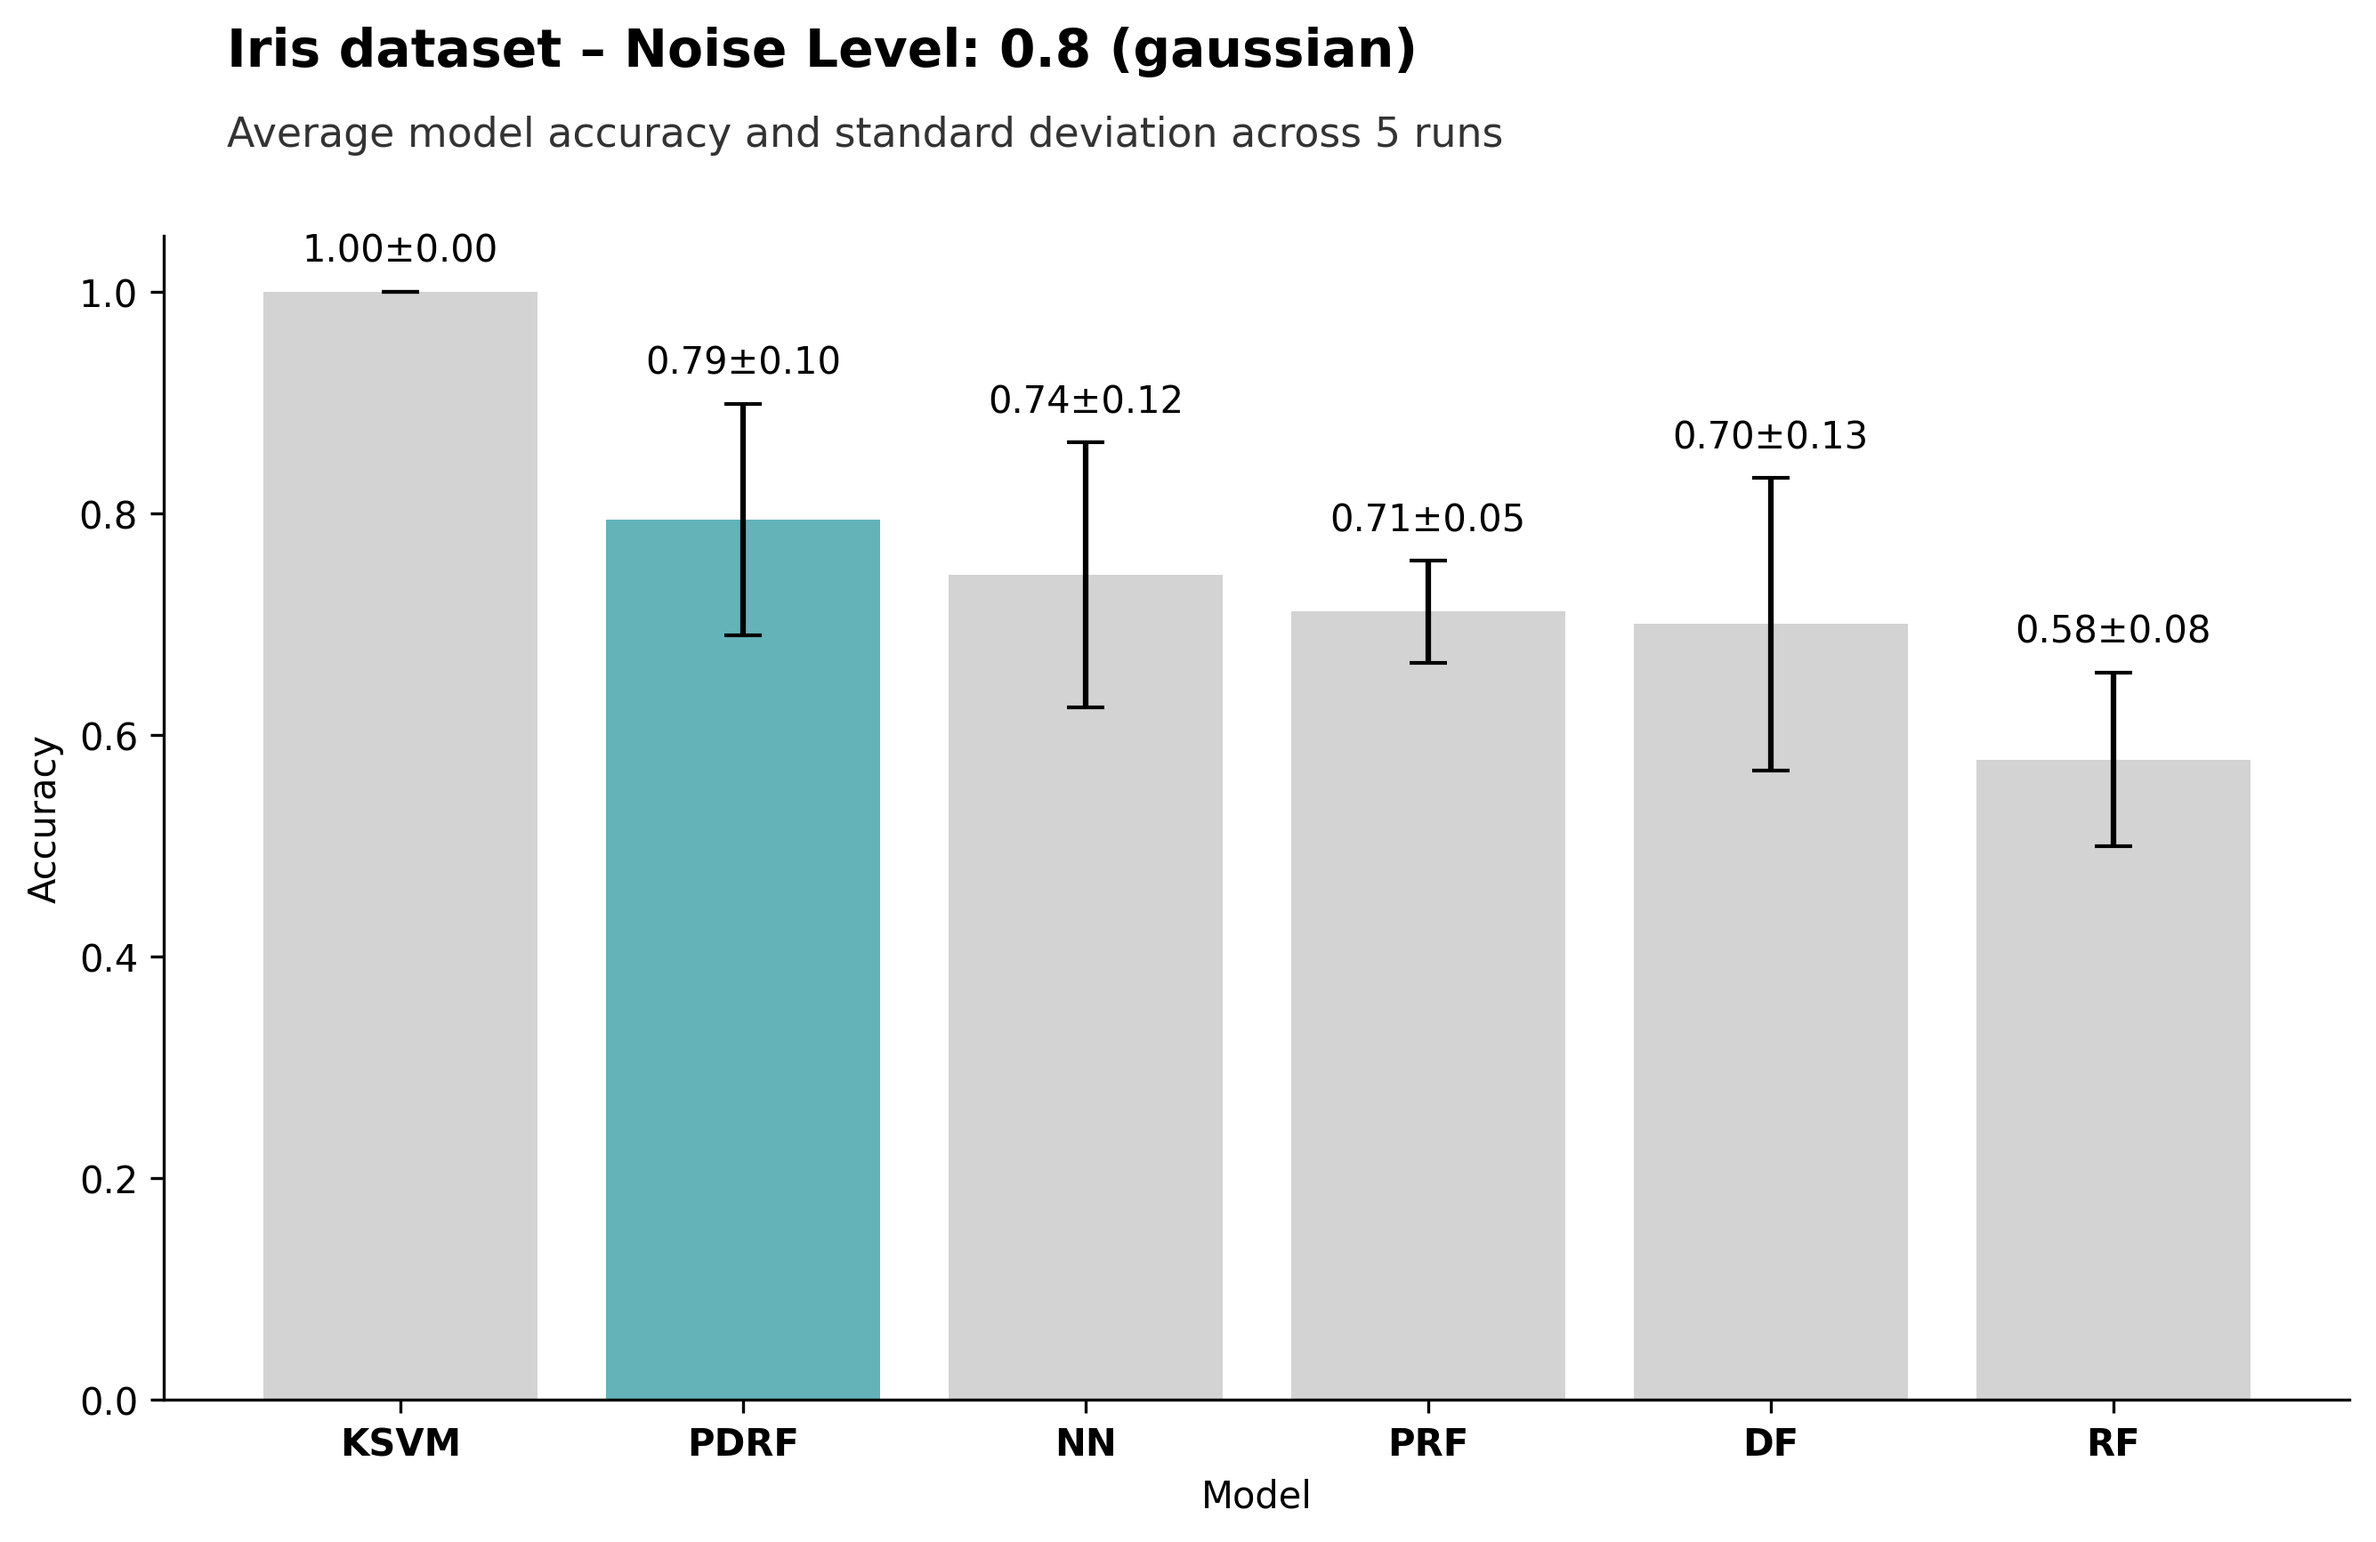
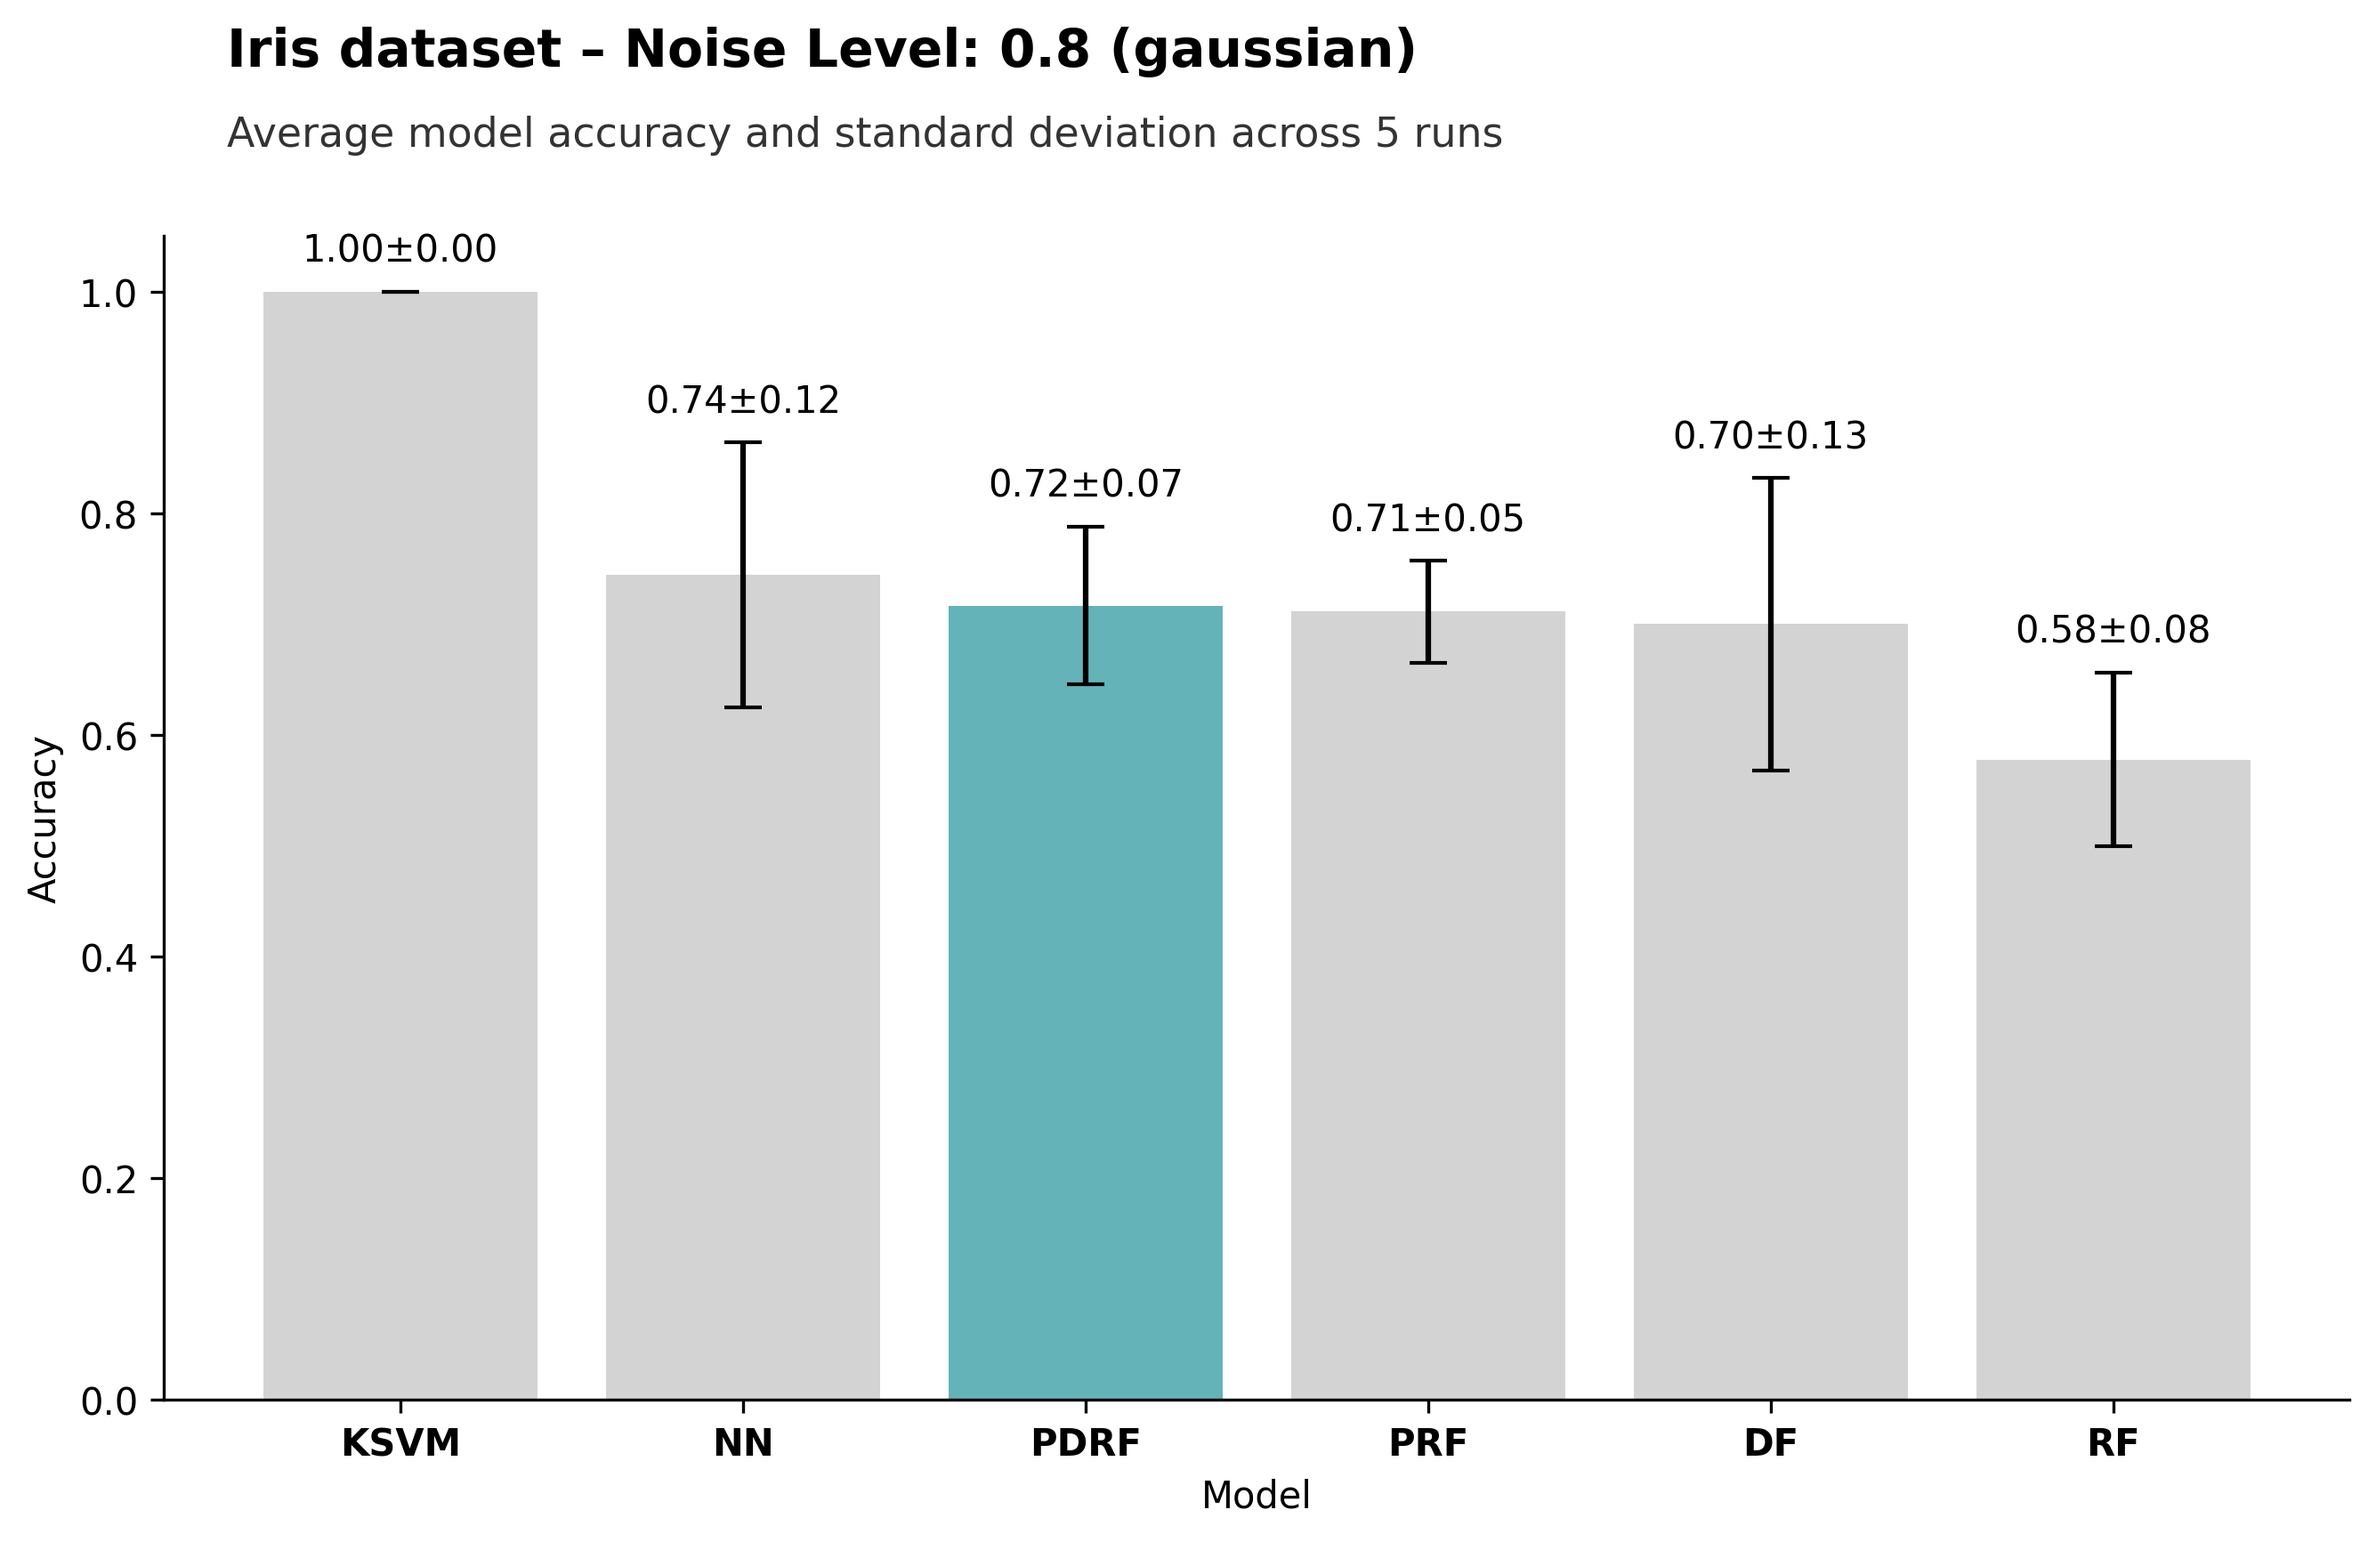
possibly not working, to identify bugs

Changed region(s): [[0.2487, 0.3116, 0.5285, 0.966], [0.4352, 0.2493, 0.4974, 0.3428], [0.2798, 0.2181, 0.3419, 0.2804]]

diff --git a/scripts/experiment_pipeline.py b/scripts/experiment_pipeline.py
@@ -62,7 +62,7 @@ def run_pipeline(config):
 
     # Add noise to train set
     X_train_noisy, _, dX, _ = add_noise(X_train, noise_type=noise_type, noise_scale=noise_scale)
-    y_train_noisy, _, pY, _ = add_label_noise(y_train, mode="random_prob", noise_level=label_noise_scale, random_seed=30)
+    y_train_noisy, _, py, _ = add_label_noise(y_train, mode="random_prob", noise_level=label_noise_scale, random_seed=30)
 
     n_classes = len(label_map)
     n_features = X_train.shape[1]
@@ -89,7 +89,7 @@ def run_pipeline(config):
                 )
                 prf_estimators.append(estimator)
             model.set_estimator(prf_estimators)
-            model.fit(X=X_train_noisy, y=y_train, dX=dX)
+            model.fit(X=X_train_noisy, y=y_train_noisy, dX=dX, py=py)
             y_pred = model.predict(X_test)
             acc = accuracy_score(y_pred, y_test)
             accuracies_PDRF.append(acc)
@@ -102,7 +102,7 @@ def run_pipeline(config):
         for seed in seeds:
             set_all_seeds(seed)
             rf = RandomForestClassifier(n_estimators=n_estimators, random_state=seed)
-            rf.fit(X_train_noisy, y_train)
+            rf.fit(X_train_noisy, y_train_noisy)
             y_pred = rf.predict(X_test)
             acc = accuracy_score(y_test, y_pred)
             accuracies_RF.append(acc)
@@ -117,7 +117,7 @@ def run_pipeline(config):
         for seed in seeds:
             set_all_seeds(seed)
             clf = CascadeForestClassifier(n_estimators=n_estimators, random_state=seed, n_trees=n_trees_drf)
-            clf.fit(X_train_noisy, y_train)
+            clf.fit(X_train_noisy, y_train_noisy)
             y_pred = clf.predict(X_test)
             acc = accuracy_score(y_test, y_pred)
             accuracies_DF.append(acc)
@@ -134,15 +134,15 @@ def run_pipeline(config):
 
         accuracies_NN = []
 
-        unique_classes = np.unique(y_train)
+        unique_classes = np.unique(y_train_noisy)
         num_classes = len(unique_classes)
         is_binary = num_classes == 2
 
         if not is_binary:
-            y_train_cat = to_categorical(np.searchsorted(unique_classes, y_train))
+            y_train_cat = to_categorical(np.searchsorted(unique_classes, y_train_noisy))
             y_test_cat = to_categorical(np.searchsorted(unique_classes, y_test))
         else:
-            y_train_cat = y_train
+            y_train_cat = y_train_noisy
             y_test_cat = y_test
 
         for seed in seeds:
@@ -187,7 +187,7 @@ def run_pipeline(config):
             'gamma': ['scale', 'auto']
         }
         grid = GridSearchCV(model, param_grid, cv=3, n_jobs=-1)
-        grid.fit(X_train_noisy, y_train)
+        grid.fit(X_train_noisy, y_train_noisy)
         best_svm = grid.best_estimator_
 
         y_pred = best_svm.predict(X_test)
@@ -211,7 +211,7 @@ def run_pipeline(config):
         for seed in seeds:
             set_all_seeds(seed)
             prf_cls = PRF.prf(n_estimators=n_estimators, bootstrap=bootstrap, max_depth=max_depth, max_features=max_features)
-            prf_cls.fit(X=X_train_noisy, y=y_train, dX=dX)
+            prf_cls.fit(X=X_train_noisy, y=y_train_noisy, dX=dX, py=py)
             score = prf_cls.score(X_test, y=y_test)
             accuracies_PRF.append(score)
 
@@ -248,12 +248,12 @@ def run_pipeline(config):
     output_dir = os.path.join(output_base, "plots")
     os.makedirs(output_dir, exist_ok=True)
     # Changed output_filename to include noise_type
-    output_filename = os.path.join(output_dir, f"{base_name}_{noise_filename_suffix}.png") 
+    output_filename = os.path.join(output_dir, f"{base_name}_{noise_filename_suffix}_{label_noise_scale}.png") 
 
     csv_dir = os.path.join(output_base, "tables")
     os.makedirs(csv_dir, exist_ok=True)
     # Changed csv_path to include noise_type
-    csv_path = os.path.join(csv_dir, f"{base_name}_{noise_filename_suffix}.csv") 
+    csv_path = os.path.join(csv_dir, f"{base_name}_{noise_filename_suffix}_{label_noise_scale}.csv") 
 
     # Create comparison dataframe
     comparison_df = pd.DataFrame({
